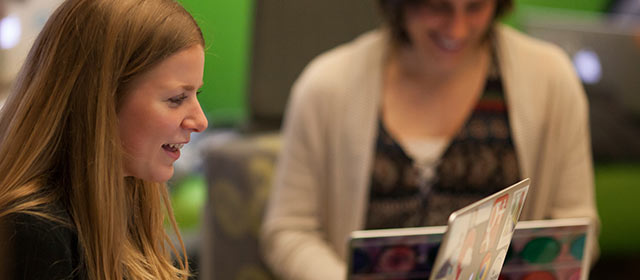
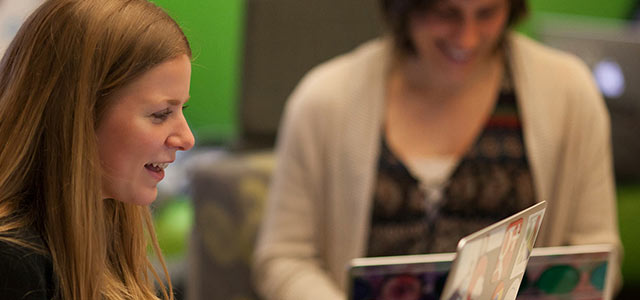
More responsiveness.

diff --git a/css/style.css b/css/style.css
@@ -195,7 +195,7 @@ button {
   @media screen and (max-width: 640px) {
     /* line 1, sass/_layers.sass */
     .bg-photo {
-      background-image: url('../img/header-small.jpg?1391578319'); } }
+      background-image: url('../img/header-small.jpg?1391580373'); } }
 
 /* line 7, sass/_layers.sass */
 .pattern-header {
@@ -266,67 +266,66 @@ button {
     height: 76px; }
 
 /* line 42, sass/_header.sass */
-.page-header,
-.bg-photo {
+.page-header {
   height: 800px; }
 
-/* line 46, sass/_header.sass */
+/* line 45, sass/_header.sass */
 .bg-photo {
   height: 850px; }
 
-/* line 49, sass/_header.sass */
+/* line 48, sass/_header.sass */
 .page-header {
   padding-top: 144px; }
-  /* line 52, sass/_header.sass */
+  /* line 51, sass/_header.sass */
   .page-header .events-jumper {
     margin-top: 144px; }
 
 @media screen and (max-width: 1600px) {
-  /* line 57, sass/_header.sass */
-  .page-header,
-  .bg-photo {
+  /* line 56, sass/_header.sass */
+  .page-header {
     height: 550px; }
 
-  /* line 61, sass/_header.sass */
+  /* line 59, sass/_header.sass */
   .bg-photo {
     height: 600px; }
 
-  /* line 64, sass/_header.sass */
+  /* line 62, sass/_header.sass */
   .page-header {
     padding-top: 96px; }
-    /* line 67, sass/_header.sass */
+    /* line 65, sass/_header.sass */
     .page-header .events-jumper {
       margin-top: 96px; } }
 @media screen and (max-width: 1024px) {
-  /* line 72, sass/_header.sass */
-  .page-header,
-  .bg-photo {
+  /* line 70, sass/_header.sass */
+  .page-header {
     height: 350px; }
 
-  /* line 76, sass/_header.sass */
+  /* line 73, sass/_header.sass */
   .bg-photo {
     height: 400px; }
 
-  /* line 79, sass/_header.sass */
+  /* line 76, sass/_header.sass */
   .page-header {
     padding-top: 48px; }
-    /* line 82, sass/_header.sass */
+    /* line 79, sass/_header.sass */
     .page-header .events-jumper {
       margin-top: 6px; } }
 @media screen and (max-width: 640px) {
-  /* line 87, sass/_header.sass */
-  .page-header,
-  .bg-photo {
+  /* line 84, sass/_header.sass */
+  .page-header {
     height: 250px; }
 
-  /* line 91, sass/_header.sass */
+  /* line 87, sass/_header.sass */
   .bg-photo {
     height: 300px; }
 
-  /* line 94, sass/_header.sass */
+  /* line 90, sass/_header.sass */
   .page-header {
     padding-top: 12px; }
-    /* line 97, sass/_header.sass */
+    /* line 93, sass/_header.sass */
+    .page-header h2 {
+      font-size: 20px; }
+    /* line 96, sass/_header.sass */
     .page-header .events-jumper {
       margin-top: 4.8px; } }
 /* line 1, sass/_nav.sass */

diff --git a/css/sass/_header.sass b/css/sass/_header.sass
@@ -36,15 +36,14 @@ $header-small: 250px
 // Huge:   2500 x 850
 // Large:  1600 x 600
 // Medium: 1030 x 400
-// Small:   640 x 280
+// Small:   640 x 300
 
 // Huge displays; HDTV etc.
-.page-header,
-.bg-photo
+.page-header
   height: $header-huge
 
 .bg-photo
-  height: $header-huge + 50px
+  height: $header-huge+50px
 
 .page-header
   padding-top: $line*6
@@ -54,12 +53,11 @@ $header-small: 250px
 
 // Large displays; most displays.
 @media screen and (max-width: 1600px)
-  .page-header,
-  .bg-photo
+  .page-header
     height: $header-large
 
   .bg-photo
-    height: $header-large + 50px
+    height: $header-large+50px
 
   .page-header
     padding-top: $line*4
@@ -69,12 +67,11 @@ $header-small: 250px
 
 // Small displays; largest image that iOS can load into single memory buffer.
 @media screen and (max-width: 1024px)
-  .page-header,
-  .bg-photo
+  .page-header
     height: $header-medium
 
   .bg-photo
-    height: $header-medium + 50px
+    height: $header-medium+50px
 
   .page-header
     padding-top: $line*2
@@ -84,15 +81,17 @@ $header-small: 250px
 
 // Phablets.
 @media screen and (max-width: 640px)
-  .page-header,
-  .bg-photo
+  .page-header
     height: $header-small
 
   .bg-photo
-    height: $header-small + 50px
+    height: $header-small+50px
 
   .page-header
     padding-top: $line/2
+
+    h2
+      font-size: 20px
 
     .events-jumper
       margin-top: $line/5

diff --git a/js/app.js b/js/app.js
@@ -121,7 +121,7 @@
       var scale;
       pos = $window.scrollTop();
       scale = Math.max(0, ((height * 0.5) - pos) / (height * 0.5));
-      $pattern_header.css(transform, "translate3d(0, " + (pos * 0.7) + "px, 0)");
+      $pattern_header.css(transform, "translate3d(0, " + (pos * 0.5) + "px, 0)");
       $pattern_right.css(transform, "translate3d(0, " + (pos * -0.5) + "px, 0)");
       $pattern_left.css(transform, "translate3d(0, " + (pos * -0.5) + "px, 0)");
       $bg_photo.css(transform, "translate3d(0, " + (pos * 0.3) + "px, 0)");
